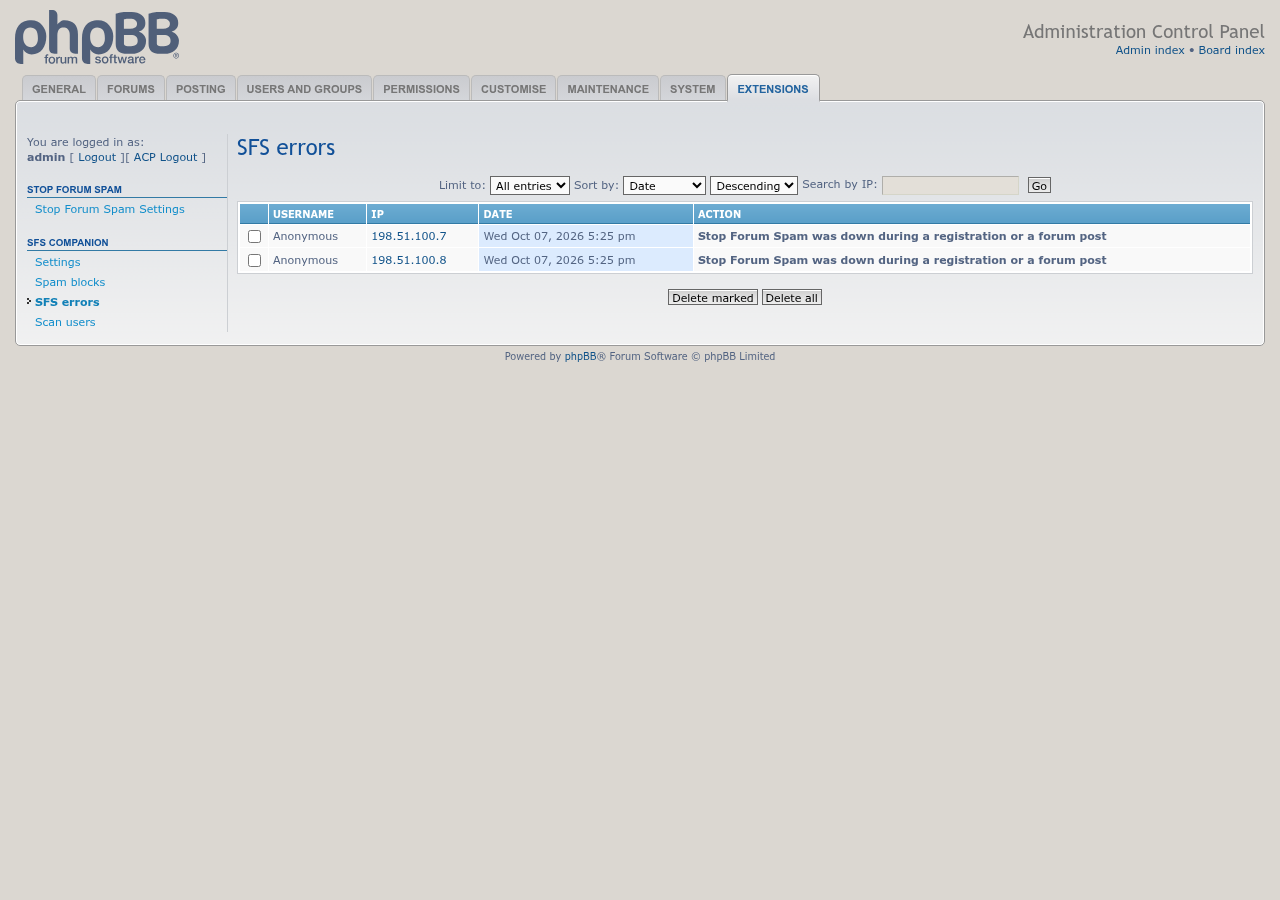
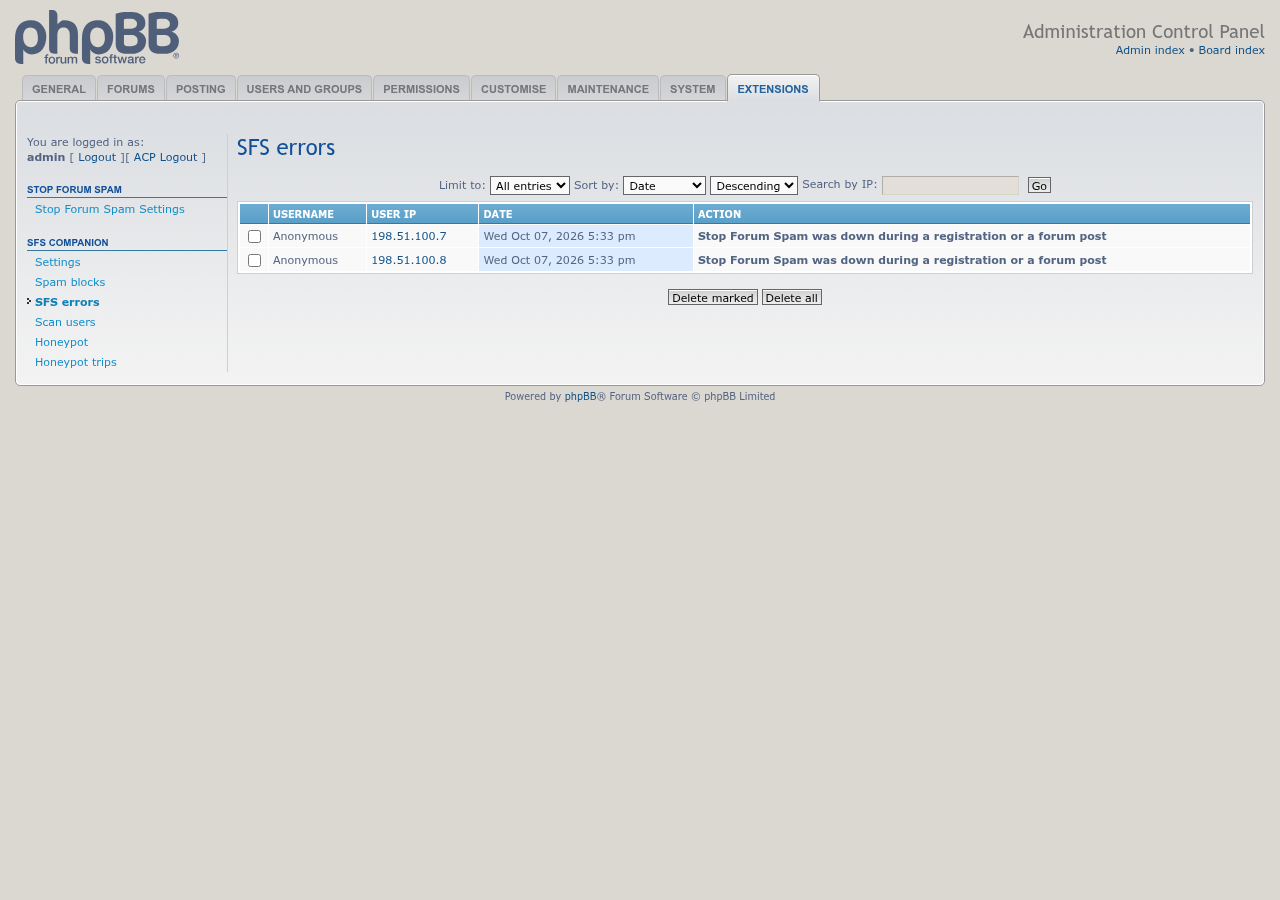
Update the screenshots for the honeypot merge
Retaken from main after the honeypot extension was merged in (#8), with
the Honeypot settings page and the Honeypot trips log added.

Changed region(s): [[0.0, 0.3733, 1.0, 0.4667], [0.2812, 0.2178, 0.3125, 0.2489]]

diff --git a/README.md b/README.md
@@ -17,13 +17,13 @@ Companion tools for the Stop Forum Spam extension: browse what it blocked, look 
 
 <table>
   <tr>
+    <td align="center"><a href="docs/images/sfscompanion-acp-honeypot-trips.png"><img src="docs/images/sfscompanion-acp-honeypot-trips.png" width="280" alt="The Honeypot trips log in the ACP"></a><br>Honeypot trips log</td>
     <td align="center"><a href="docs/images/sfscompanion-acp-blocks.png"><img src="docs/images/sfscompanion-acp-blocks.png" width="280" alt="The Spam blocks log in the ACP"></a><br>Spam blocks log</td>
-    <td align="center"><a href="docs/images/sfscompanion-acp-errors.png"><img src="docs/images/sfscompanion-acp-errors.png" width="280" alt="The SFS errors log in the ACP"></a><br>SFS errors log</td>
     <td align="center"><a href="docs/images/sfscompanion-profile-link.png"><img src="docs/images/sfscompanion-profile-link.png" width="280" alt="The Check via StopForumSpam link on a member's profile, highlighted"></a><br>Profile lookup link (highlighted)</td>
   </tr>
 </table>
 
-Click a screenshot for the full size. All screenshots, including the settings page, are on the [Screenshots wiki page](https://github.com/phpbbmodders/sfscompanion/wiki/Screenshots).
+Click a screenshot for the full size. All screenshots, including the honeypot settings and the SFS errors log, are on the [Screenshots wiki page](https://github.com/phpbbmodders/sfscompanion/wiki/Screenshots).
 
 ## Requirements
 
